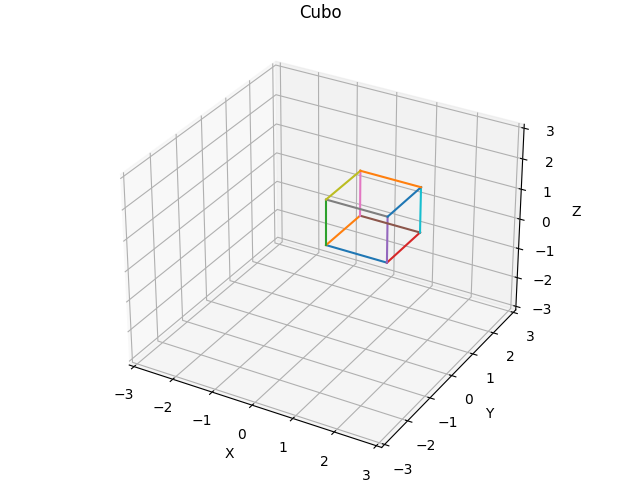
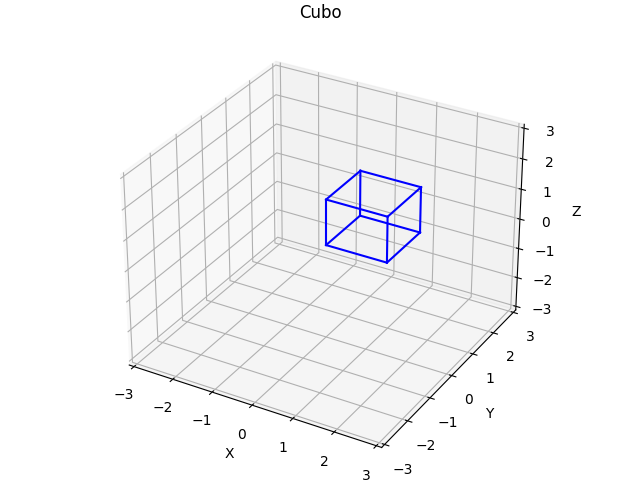
plot dos sólidos com cor

Changed region(s): [[0.5, 0.3438, 0.6562, 0.5625], [0.625, 0.375, 0.6562, 0.4375]]

diff --git a/trabalho2/src/PlotaSolido.py b/trabalho2/src/PlotaSolido.py
@@ -23,7 +23,7 @@ def plota_arestas(solido: Solido, ax):
         x = [pontos[0][0], pontos[1][0]]
         y = [pontos[0][1], pontos[1][1]]
         z = [pontos[0][2], pontos[1][2]]
-        ax.plot(x, y, z)
+        ax.plot(x, y, z, color=solido.cor)
 
 
 def plota_solido(solido: Solido, com_arestas=True, com_pontos=False):
